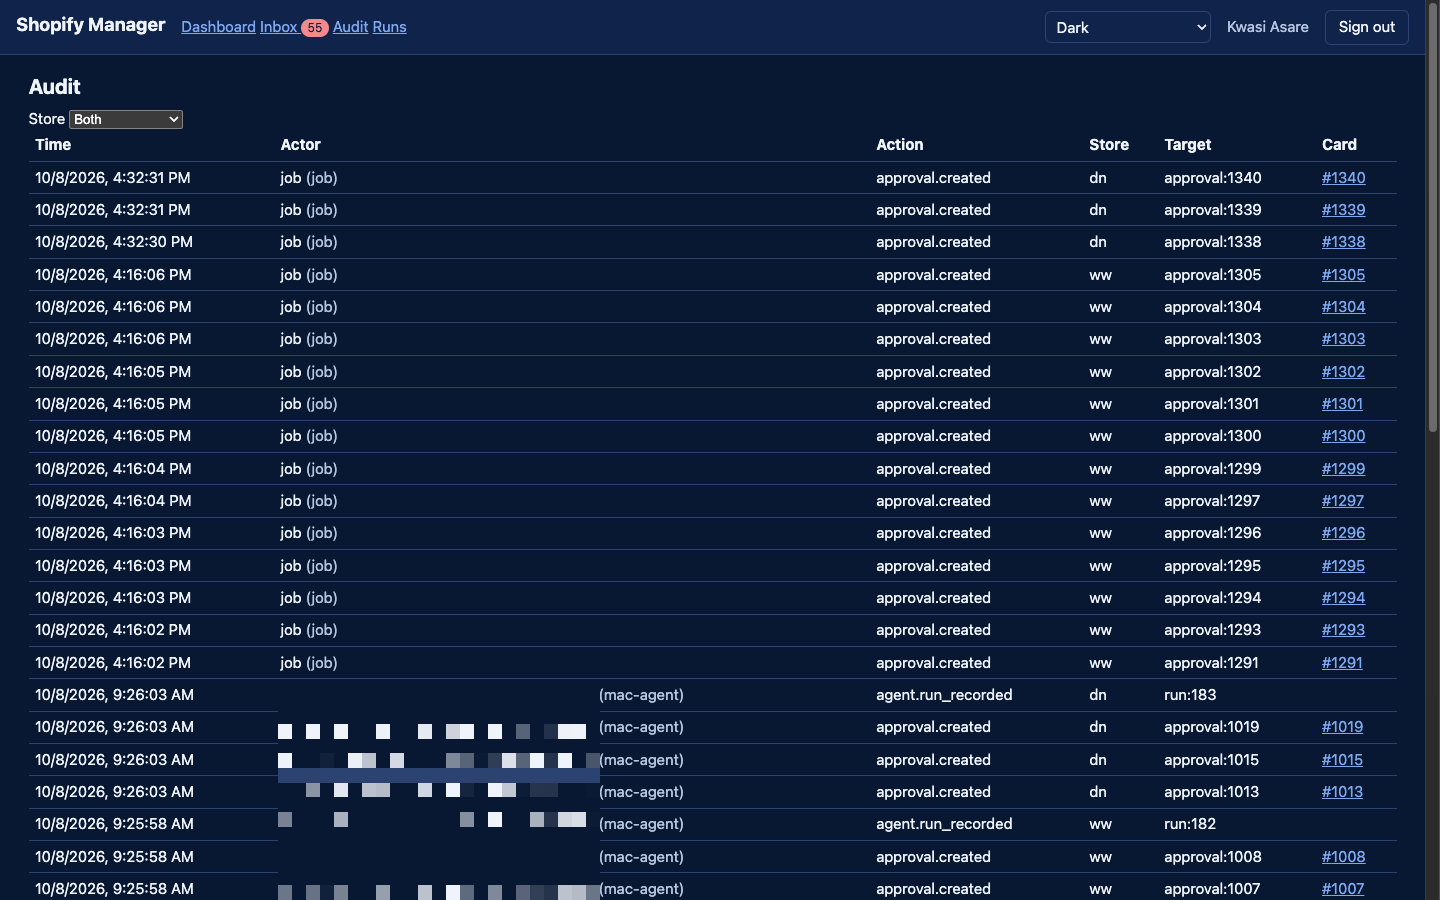
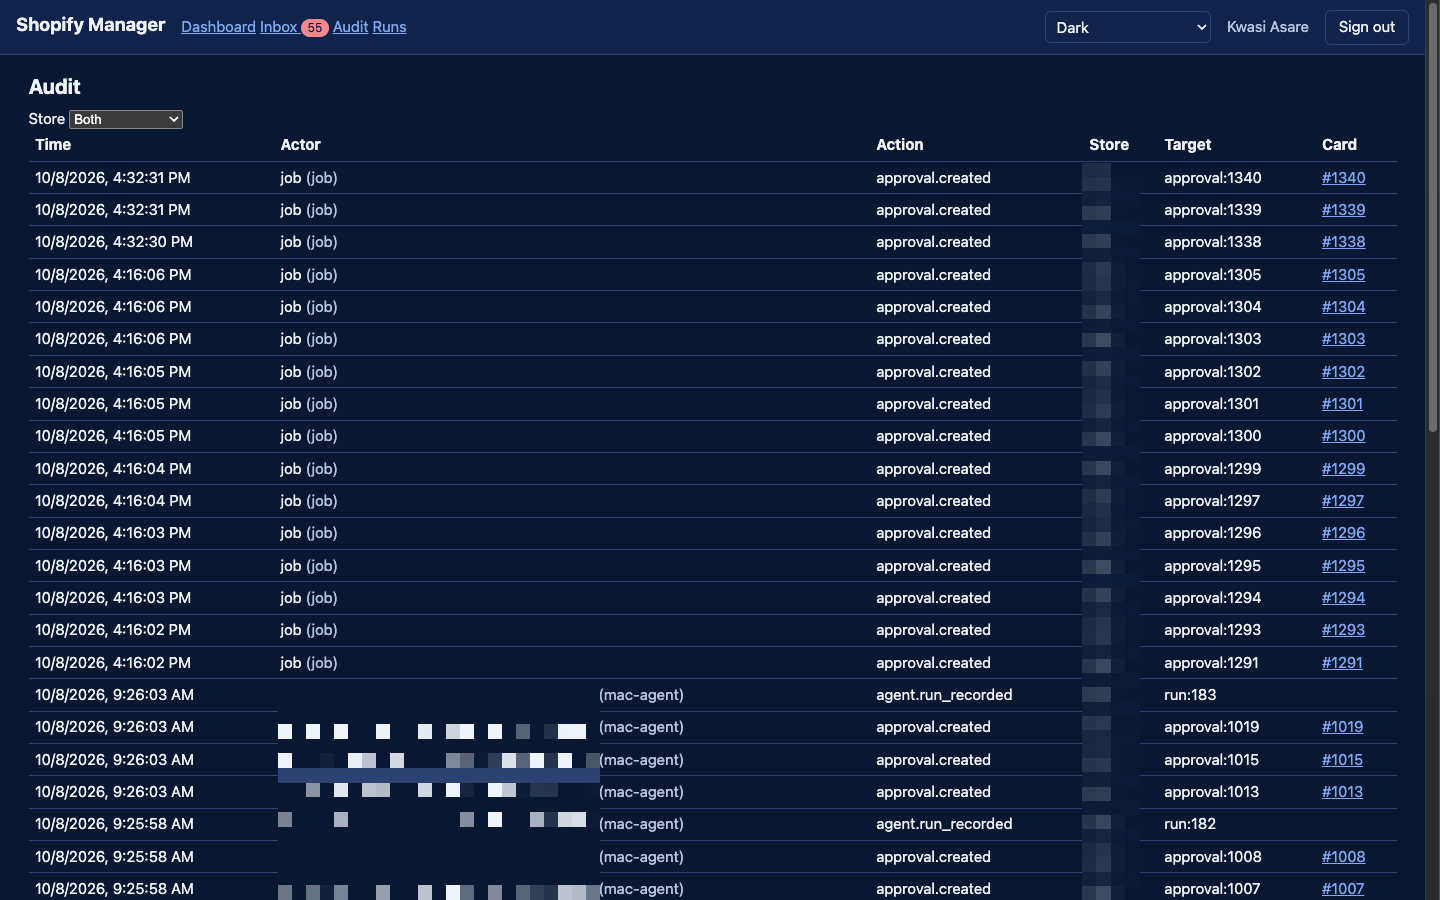
EP-6 review fix: correct AVD counts, Shopify SQL tier and ShiftBoard no-show wording; blur store codes
Peer review (six personas) of 21a5c4e and 7d6accd against the EP-6
evidence table, the public avd-manager-portfolio repo, and the private
scensob-platform, shopify-manager and IntuneManager repos.

Findings fixed here:
- MAJOR  AVD Manager: "about 17" least-privilege custom role definitions;
         the linked public repo (and the private one) define 11.
- MAJOR  Shopify Manager: production Azure SQL is Basic tier (sqlMode
         'basic' in main.bicepparam); only the dev database is on the
         serverless free offer with auto-pause. Data bullet and stack
         chip corrected.
- MINOR  AVD Manager: governance has 12 registered checks, not "about 13".
- MINOR  Shopify Manager summary presented the morning run as built; it is
         Phase 4 and planned.
- MINOR  ShiftBoard: a late clock-in does not "become" a no-show; no
         clock-in within an hour marks the no-show, then a late clock-in
         needs a coordinator's approval (packages/engine timers, SS-16/30).
- MINOR  Privacy: 04-audit.png showed two-letter store codes (initials of
         the store names) in the Store column; pixelated, alt and caption
         updated.
- MINOR  Dashboard caption said "live figures blurred" while catalog and
         collection counts are visible; now "sales figures blurred".
- NIT    AVD cost alt/caption: projection is estate-wide, the by-resource-
         group table is month-to-date.

Verified: astro check 0 errors / 0 warnings / 0 hints; dist/projects has
[…]

Changed region(s): [[0.75, 0.1867, 0.7812, 1.0]]

diff --git a/src/content/projects/shop-manager.md b/src/content/projects/shop-manager.md
@@ -4,15 +4,15 @@ order: 5
 status: "in-progress"
 category: "product"
 org: "Spreadcom LLC"
-summary: "One private web app to run two Shopify stores — a side-by-side dashboard, an approvals inbox and an automated morning run — on a serverless Azure stack with no stored passwords."
+summary: "One private web app to run two Shopify stores — a side-by-side dashboard and an approvals inbox, with an automated morning run planned — on a serverless Azure stack with no stored passwords."
 problem: "Running two stores meant a daily checklist across Shopify, ad platforms and a scripted browser run writing markdown logs. The app turns that into a dashboard, approval cards and scheduled jobs, so the owner reviews and approves instead of clicking through admin pages."
 architecture: "A React single-page app on Azure Static Web Apps signs in with Microsoft Entra ID and calls an Express API on Azure Container Apps that validates the Entra token against an allow-list. A scheduled Container Apps Job, built from the same image as the API, refreshes store data from the official Shopify Admin GraphQL API into Azure SQL. Everything runs as a user-assigned managed identity: Azure SQL uses Entra-only authentication, secrets live in Key Vault and are referenced by URL, and images are pulled from Azure Container Registry with the same identity, so no password exists anywhere. GitHub Actions deploys through OIDC federated credentials; infrastructure is Bicep with a what-if check on every change and a confirm-gated deploy. Dev runs as a named preview environment on the same resources; production deploys only after the owner approves the merge."
-stack: ["React 18", "Vite", "TypeScript", "Express", "Zod", "Prisma", "Microsoft Entra ID (MSAL)", "Shopify Admin GraphQL", "Azure Static Web Apps", "Azure Container Apps + Jobs", "Azure SQL (serverless, Entra-only)", "Azure Key Vault", "Managed identity", "Azure Container Registry", "Log Analytics", "Bicep", "GitHub Actions (OIDC)"]
+stack: ["React 18", "Vite", "TypeScript", "Express", "Zod", "Prisma", "Microsoft Entra ID (MSAL)", "Shopify Admin GraphQL", "Azure Static Web Apps", "Azure Container Apps + Jobs", "Azure SQL (Entra-only)", "Azure Key Vault", "Managed identity", "Azure Container Registry", "Log Analytics", "Bicep", "GitHub Actions (OIDC)"]
 repoVisibility: "private"
 gallery:
   - image: "./assets/shop-manager/01-dashboard.png"
-    alt: "Side-by-side dashboard for two stores with traffic charts, catalog counts, collection coverage and price anomalies; store names and live figures blurred"
-    caption: "Dashboard: both stores side by side (store names and live figures blurred)"
+    alt: "Side-by-side dashboard for two stores with traffic charts, catalog counts, collection coverage and price anomalies; store names and sales figures blurred"
+    caption: "Dashboard: both stores side by side (store names and sales figures blurred)"
   - image: "./assets/shop-manager/02-inbox.png"
     alt: "Approvals inbox listing draft-and-redirect cards for sold-out products, each with created and expiry times"
     caption: "Approvals inbox: each card runs one allow-listed Shopify write when approved"
@@ -20,8 +20,8 @@ gallery:
     alt: "Runs table showing the scheduled refresh job succeeding every fifteen minutes"
     caption: "Run history from the scheduled Container Apps Job"
   - image: "./assets/shop-manager/04-audit.png"
-    alt: "Audit log of approval and agent events with actor, action, store, target and card; agent identifier blurred"
-    caption: "Audit log of every approval and agent event"
+    alt: "Audit log of approval and agent events with actor, action, store, target and card; agent identifier and store codes blurred"
+    caption: "Audit log of every approval and agent event (store codes blurred)"
 liveUrl: "https://black-meadow-0de3a880f.2.azurestaticapps.net/"
 ---
 
@@ -32,7 +32,7 @@ Sign-in is limited to the store owner, so the live link shows the Microsoft sign
 - **Web:** React 18 + Vite on Azure Static Web Apps (Free). The browser signs in with Microsoft Entra ID (MSAL) and sends an access token to the API.
 - **API:** Express + Zod on Azure Container Apps (Consumption, scales to zero). Every request is checked against the Entra token and an allow-list of permitted users.
 - **Scheduled refresh:** an Azure Container Apps Job on a cron schedule, from the same container image, pulls orders, products, collections and shipping settings from the Shopify Admin GraphQL API and writes them to the database.
-- **Data:** Azure SQL serverless on the free offer, Entra-only authentication, auto-pause when idle. Prisma for schema and queries.
+- **Data:** Azure SQL with Entra-only authentication: a Basic-tier database in production and a serverless free-offer database for dev that auto-pauses when idle. Prisma for schema and queries.
 - **Identity and secrets:** one user-assigned managed identity pulls images from Azure Container Registry, reads Key Vault through RBAC and connects to SQL with an Entra token. No SQL passwords or secrets in code, CI logs or app settings.
 - **Shopify access:** a Dev Dashboard app installed on both stores; short-lived tokens through the client-credentials grant, refreshed before expiry.
 - **Shopify writes:** limited to an allow-list of four mutations (product status, URL redirect, variant price update and publish). Each runs only from an approved card and is written to the audit log.

diff --git a/src/content/projects/avd-manager.md b/src/content/projects/avd-manager.md
@@ -6,7 +6,7 @@ category: "product"
 org: "Spreadcom LLC"
 summary: "Operations console for Azure Virtual Desktop, with a public, no-sign-in demo on a fictional Contoso estate."
 problem: "Day-to-day Azure Virtual Desktop operations are spread across many Azure Portal blades. The app puts host pools, sessions, images, scaling, cost, profiles, governance checks and audit in one place for the people who run the estate."
-architecture: "A React 18 and Fluent UI v9 single-page app on Azure Static Web Apps with Microsoft Entra sign-in. The API runs on Azure Functions v4 (Node 22, Flex Consumption) with a managed identity and no secrets, and uses the Azure SDKs for Desktop Virtualization, Compute, Cost Management, Network, Storage and Monitor / Log Analytics (KQL). Bicep defines about 17 least-privilege custom role definitions. Viewer, operator and admin roles are mapped from Entra groups and enforced in the API. Every change is written to an append-only audit with the operator's reason."
+architecture: "A React 18 and Fluent UI v9 single-page app on Azure Static Web Apps with Microsoft Entra sign-in. The API runs on Azure Functions v4 (Node 22, Flex Consumption) with a managed identity and no secrets, and uses the Azure SDKs for Desktop Virtualization, Compute, Cost Management, Network, Storage and Monitor / Log Analytics (KQL). Bicep defines 11 least-privilege custom role definitions. Viewer, operator and admin roles are mapped from Entra groups and enforced in the API. Every change is written to an append-only audit with the operator's reason."
 gallery:
   - image: "./assets/avd-manager/01-dashboard.png"
     alt: "AVD Manager dashboard showing sessions, scaling phase, image version, cost and alerts for the Contoso demo estate"
@@ -18,8 +18,8 @@ gallery:
     alt: "Sessions page listing user sessions with message and log-off actions"
     caption: "Sessions: user sessions with message and log-off actions (fictional Contoso demo)"
   - image: "./assets/avd-manager/04-cost.png"
-    alt: "Cost page showing month-to-date spend and projection by resource group"
-    caption: "Cost: month-to-date spend and projection by resource group (fictional Contoso demo)"
+    alt: "Cost page showing month-to-date spend, projected month-end and spend by resource group"
+    caption: "Cost: month-to-date spend, projected month-end and spend by resource group (fictional Contoso demo)"
   - image: "./assets/avd-manager/05-governance.png"
     alt: "Governance page listing read-only checks with pass, warn and fail results"
     caption: "Governance: read-only checks with pass, warn and fail results (fictional Contoso demo)"
@@ -46,5 +46,5 @@ The demo runs on a fictional, in-memory Contoso estate with a reset button. Reve
 - **Cost:** spend, host runtime, idle hosts, savings and FSLogix usage.
 - **FSLogix profiles:** size, orphan and duplicate detection, restore and reset.
 - **Monitoring:** curated KQL views, with alert acknowledge and snooze.
-- **Governance:** about 13 read-only checks, for example delete locks, private endpoints, Key Vault purge protection, budget and diagnostic settings.
+- **Governance:** 12 read-only checks, for example delete locks, private endpoints, Key Vault purge protection, budget and diagnostic settings.
 - **Audit** of every change, plus a command palette and keyboard shortcuts.

diff --git a/src/content/projects/workforce-scheduling.md b/src/content/projects/workforce-scheduling.md
@@ -29,7 +29,7 @@ Source is in a private repository and available on request.
 - **Client portal:** a client's contacts raise requests and see confirmations, with CSV and print export.
 - **Coordinators:** edit requests, reschedule by drag and drop, reassign with a confirmation step, and work from their own board of routed shifts.
 - **Mobile staff app:** device time clock with an offline queue, background location, and timesheet.
-- **Time capture rules:** time entries close at the scheduled end, and unverified closes are flagged. A late clock-in becomes a no-show, with an override that needs approval.
+- **Time capture rules:** time entries close at the scheduled end, and unverified closes are flagged. A shift with no clock-in within an hour of its start is marked a no-show, and a late clock-in then needs a coordinator's approval.
 - **Access control:** the API checks permissions, not role names, on every route, so read-only roles cannot write.
 - **Hosting:** the API scales to zero when idle. The live demo runs on sample data.
 
